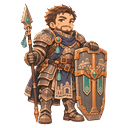
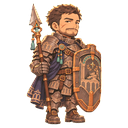
feat: ダインのユニットの絵を、肖像を見本にして作り直したものに置き換える（DES-NG-08）
128×128 の透過 PNG。台帳の行を作り直し（添付した画像と指示文を記録）。
自軍のユニットの絵の指示文を、肖像を人物の見本にする形に直す。

Claude-Session: https://claude.ai/code/session_01Gwc8HGbd5fkwvE2Ki4XAgt

diff --git a/data/alchemy/media/ASSETS.md b/data/alchemy/media/ASSETS.md
@@ -44,6 +44,6 @@
 | `audio/se/win.wav` | 自作（合成。tools/synth、乱数の種 1110） | tools/synth（Go の標準ライブラリのみ。コミットの版は履歴を参照）、2026-11-13 | 勝利の短いジングル（上がる分散和音のあと、C メジャーの和音を伸ばす。2.4 秒） | 自作。CC0 1.0 として扱う（既存の自作の画像と同じ条件。ライセンスの原本はない） | 2026-11-13 | 実装担当エージェント（合成した音を耳では確かめていない） |
 | `art/portraits/aoi.png` | AI 生成（ChatGPT。元の 1254×1254 の画像を、512×512 の PNG に縮小しただけで、ほかの加工はしていない） | ChatGPT（GPT-6、チャットモード）、2026-11-13 | 「2D hand-drawn illustration, flat colors with at most two shading tones, clean medium-weight outlines, slightly desaturated palette with amber/copper and aqua-teal as the only vivid accents, fantasy ancient stone city setting, no text, no letters, no watermark. Bust-up portrait, 3/4 view, calm and gentle expression, soft warm rim light, plain flat light-gray background, square 1:1. A slender young woman around 20 years old, average height for her age, herbalist-alchemist wearing a long cream-colored coat with copper buckles, carrying a large leather backpack full of glass vials and copper tubes, an old handwritten recipe book tucked under the arm, geometric symbol embroidery on the sleeve, short practical hair, amber accent.」（全文。改行は空白に置き換えた。**絵柄のブロックは、この生成のあとに方針書で書き換えた**ので、今の方針書の指示文とは違う）。眼鏡・髪の編み込み・イヤリング・ペンダント・巻物・薬草などは、指示になく、生成側が足したもの。調合帳は、脇に挟まず手に持っている | ChatGPT（OpenAI）の利用規約とコンテンツポリシーを、開発者が確認した。**確認した条項の番号と版は、まだ記録していない（開発者が追記する）** | 2026-11-13 | 開発者 |
 | `art/units/aoi.png` | AI 生成（ChatGPT）。元の 1254×1254 の画像（背景は緑）を、緑の背景を透過にし、人物の範囲で切り出して正方形に整え、128×128 の PNG に縮小した。処理の概略: ① クロマキー（緑らしさ k = G − max(R,B) が 70 以下は不透明、170 以上は透明、その間は直線で α を決める）、② 緑かぶりの除去（α が 1 未満の画素と、透明に近い縁の帯（元の画像で 6 px 以内）では、G を max(R,B) に揃える。髪の橙・服の青緑・薬草の緑は G が max(R,B) を超えないか、縁の外なので変わらない）、③ α > 0.04 の範囲で切り出して 6% の余白を足し、足元をそろえて正方形にする、④ 乗算済みアルファで縮小（Lanczos）、⑤ 縮小のあと、半透明の画素の G を max(R,B) に揃え、それでも k が 8 以上残る α 64 以下の画素は α を 0 にする。仕上がりは、G ≧ 180 かつ G − max(R,B) ≧ 60 の半透明の画素が 0 個（前回は 38 個） | ChatGPT（GPT-6、チャットモード）、2026-11-13。加工は Python（Pillow・NumPy）の使い捨てのスクリプト | 「2D hand-drawn anime-style illustration, soft cel shading with subtle texture, clean thin-to-medium outlines, slightly desaturated palette with amber/copper and aqua-teal as the only vivid accents, fantasy ancient stone city setting, no text, no letters, no watermark. Full-body chibi character, 2.5 heads tall, front three-quarter view, standing pose, centered, entire body visible with margin on all sides, plain flat solid bright-green background (for cutting out), square 1:1. A slender young woman around 20 years old, herbalist-alchemist wearing a long cream-colored coat with copper buckles, a large leather backpack full of glass vials and copper tubes (looks big against her slim frame), short practical hair, amber accent.」（全文。改行は空白に置き換えた）。眼鏡・髪の編み込み・イヤリング・ペンダント・巻物・薬草・腰の小さな鞄・足元の革のブーツなどは、指示になく、生成側が足したもの。同じ人物の肖像（`art/portraits/aoi.png`）とは、別の生成 | ChatGPT（OpenAI）の利用規約とコンテンツポリシーを、開発者が確認した。**確認した条項の番号と版は、まだ記録していない（開発者が追記する）** | 2026-11-13 | 開発者 |
-| `art/units/dain.png` | AI 生成（ChatGPT）。元の 1254×1254 の画像（背景は緑）を、緑の背景を透過にし（クロマキー。縁の緑かぶりを除去）、人物の範囲で切り出して正方形に整え、128×128 の PNG に縮小した（アオイの全身の絵と同じ処理） | ChatGPT（GPT-6、チャットモード）、2026-11-13。加工は Python（Pillow・NumPy）の使い捨てのスクリプト | 「Use the attached image as a style reference: match its art style, line weight, shading, color treatment and chibi proportions, but draw a different character as described below. 2D hand-drawn anime-style illustration, soft cel shading with subtle texture, clean thin-to-medium outlines, slightly desaturated palette with amber/copper and aqua-teal as the only vivid accents, fantasy ancient stone city setting, no text, no letters, no watermark. Full-body chibi character, 2.5 heads tall, front three-quarter view, standing pose, centered, entire body visible with margin on all sides, plain flat solid bright-green background (for cutting out), square 1:1. a broad-shouldered, sturdy man in his late 30s with a calm, dependable expression, short cropped hair and a light beard, wearing heavy iron-gray plate armor with an indigo cloth sash, copper rivets and buckles, holding a large tower shield and a spear.」（`docs/01_concept/new-game-prompts.md` の「ダイン — ユニットの絵」の組み立て済みの指示文の全文。改行は空白に置き換えた。生成のとき、アオイの全身の絵を参照画像として添付した。**生成時に指示文を変えていないかは、開発者に確認中**）。頬の傷・房飾り・盾と鎧の街の模様などは、指示になく、生成側が足したもの | ChatGPT（OpenAI）の利用規約とコンテンツポリシーを、開発者が確認した（アオイの絵と同じ）。**確認した条項の番号と版は、まだ記録していない（開発者が追記する）** | 2026-11-13 | 開発者 |
+| `art/units/dain.png` | AI 生成（ChatGPT）。元の 1254×1254 の画像（背景は緑）を、緑の背景を透過にし（クロマキー。縁の緑かぶりを除去）、人物の範囲で切り出して正方形に整え、128×128 の PNG に縮小した（ほかの全身の絵と同じ処理） | ChatGPT（GPT-6、チャットモード）、2026-11-13。加工は Python（Pillow・NumPy）の使い捨てのスクリプト | 「Use the first attached image as a style reference: match its art style, line weight, shading, color treatment and chibi proportions. The second attached image shows the same character in a portrait: keep exactly the same face, hair, outfit, colors and accessories, and redraw the character as a full-body chibi following the first image's proportions. 2D hand-drawn anime-style illustration, soft cel shading with subtle texture, clean thin-to-medium outlines, slightly desaturated palette with amber/copper and aqua-teal as the only vivid accents, fantasy ancient stone city setting, no text, no letters, no watermark. Full-body chibi character, 2.5 heads tall, front three-quarter view, standing pose, centered, entire body visible with margin on all sides, plain flat solid bright-green background (for cutting out), square 1:1. a broad-shouldered, sturdy man in his late 30s with a calm, dependable expression, short cropped hair and a light beard, wearing heavy iron-gray plate armor with an indigo cloth sash, copper rivets and buckles, holding a large tower shield and a spear.」（`docs/01_concept/new-game-prompts.md` の「ダイン — ユニットの絵」の組み立て済みの指示文の全文。改行は空白に置き換えた。生成のとき、①アオイの全身の絵（絵柄の見本）、②ダインの肖像 `art/portraits/dain.png`（人物の見本）を添付した。**生成時に指示文を変えていないかは、開発者に確認中**）。頬の傷・胸の花の留め具と房飾り・盾の街と柱廊の模様・鎧の肩の模様・マントの裾の模様などは、指示になく、生成側が足したもの（肖像から引き継いだ）。先に置いていた、肖像を見本にしない版の全身の絵は、この絵に置き換えた | ChatGPT（OpenAI）の利用規約とコンテンツポリシーを、開発者が確認した（アオイの絵と同じ）。**確認した条項の番号と版は、まだ記録していない（開発者が追記する）** | 2026-11-13 | 開発者 |
 | `art/units/tori.png` | AI 生成（ChatGPT）。元の 1254×1254 の画像（背景は緑）を、緑の背景を透過にし（クロマキー。縁の緑かぶりを除去）、人物の範囲で切り出して正方形に整え、128×128 の PNG に縮小した（アオイ・ダインの全身の絵と同じ処理） | ChatGPT（GPT-6、チャットモード）、2026-11-13。加工は Python（Pillow・NumPy）の使い捨てのスクリプト | 「Use the attached image as a style reference: match its art style, line weight, shading, color treatment and chibi proportions, but draw a different character as described below. 2D hand-drawn anime-style illustration, soft cel shading with subtle texture, clean thin-to-medium outlines, slightly desaturated palette with amber/copper and aqua-teal as the only vivid accents, fantasy ancient stone city setting, no text, no letters, no watermark. Full-body chibi character, 2.5 heads tall, front three-quarter view, standing pose, centered, entire body visible with margin on all sides, plain flat solid bright-green background (for cutting out), square 1:1. a lean, tall young man around 19 with short messy hair and an energetic expression, wearing brown leather armor with a muted ochre-yellow scarf, copper buckles, holding a long spear taller than himself.」（`docs/01_concept/new-game-prompts.md` の「トーリ — ユニットの絵」の組み立て済みの指示文の全文。改行は空白に置き換えた。生成のとき、参照画像を添付した。**生成時に指示文を変えていないかは、開発者に確認中**）。笑った顔・頬の絆創膏・髪の橙のメッシュ・房飾り・腰の鞄と小瓶・スカーフと腰布の街の模様・革のブーツなどは、指示になく、生成側が足したもの | ChatGPT（OpenAI）の利用規約とコンテンツポリシーを、開発者が確認した（アオイの絵と同じ）。**確認した条項の番号と版は、まだ記録していない（開発者が追記する）** | 2026-11-13 | 開発者 |
 | `art/portraits/dain.png` | AI 生成（ChatGPT）。元の 1254×1254 の画像を、512×512 の PNG に縮小しただけで、ほかの加工はしていない | ChatGPT（GPT-6、チャットモード）、2026-11-13 | 「Use the attached image as a style reference: match its art style, line weight, shading and color treatment, but draw a different character as described below. 2D hand-drawn anime-style illustration, soft cel shading with subtle texture, clean thin-to-medium outlines, slightly desaturated palette with amber/copper and aqua-teal as the only vivid accents, fantasy ancient stone city setting, no text, no letters, no watermark. Bust-up portrait, 3/4 view, calm expression, soft warm rim light, plain flat light-gray background, square 1:1. a broad-shouldered, sturdy man in his late 30s with a calm, dependable expression, short cropped hair and a light beard, wearing heavy iron-gray plate armor with an indigo cloth sash, copper rivets and buckles, holding a large tower shield and a spear.」（`docs/01_concept/new-game-prompts.md` の「ダイン — 肖像」の組み立て済みの指示文の全文。改行は空白に置き換えた。生成のとき、参照画像はアオイの肖像だけを添付した。**生成時に指示文を変えていないかは、開発者に確認中**）。頬の傷・胸の花の留め具と房飾り・盾の街と柱廊の模様・鎧の肩の模様などは、指示になく、生成側が足したもの | ChatGPT（OpenAI）の利用規約とコンテンツポリシーを、開発者が確認した（アオイの絵と同じ）。**確認した条項の番号と版は、まだ記録していない（開発者が追記する）** | 2026-11-13 | 開発者 |

diff --git a/docs/01_concept/new-game-prompts.md b/docs/01_concept/new-game-prompts.md
@@ -50,7 +50,8 @@ as a full-body chibi following the first image's proportions.
 ### ダイン（護衛の重装兵） — ユニットの絵（`units/dain.png`）
 
 ```
-Use the attached image as a style reference: match its art style, line weight, shading, color treatment and chibi proportions, but draw a different character as described below.
+Use the first attached image as a style reference: match its art style, line weight, shading, color treatment and chibi proportions.
+The second attached image shows the same character in a portrait: keep exactly the same face, hair, outfit, colors and accessories, and redraw the character as a full-body chibi following the first image's proportions.
 2D hand-drawn anime-style illustration, soft cel shading with subtle texture, clean thin-to-medium outlines, slightly desaturated palette with amber/copper and aqua-teal as the only vivid accents, fantasy ancient stone city setting, no text, no letters, no watermark.
 Full-body chibi character, 2.5 heads tall, front three-quarter view, standing pose, centered, entire body visible with margin on all sides, plain flat solid bright-green background (for cutting out), square 1:1.
 a broad-shouldered, sturdy man in his late 30s with a calm, dependable expression, short cropped hair and a light beard, wearing heavy iron-gray plate armor with an indigo cloth sash, copper rivets and buckles, holding a large tower shield and a spear.
@@ -68,7 +69,8 @@ a broad-shouldered, sturdy man in his late 30s with a calm, dependable expressio
 ### トーリ（槍兵） — ユニットの絵（`units/tori.png`）
 
 ```
-Use the attached image as a style reference: match its art style, line weight, shading, color treatment and chibi proportions, but draw a different character as described below.
+Use the first attached image as a style reference: match its art style, line weight, shading, color treatment and chibi proportions.
+The second attached image shows the same character in a portrait: keep exactly the same face, hair, outfit, colors and accessories, and redraw the character as a full-body chibi following the first image's proportions.
 2D hand-drawn anime-style illustration, soft cel shading with subtle texture, clean thin-to-medium outlines, slightly desaturated palette with amber/copper and aqua-teal as the only vivid accents, fantasy ancient stone city setting, no text, no letters, no watermark.
 Full-body chibi character, 2.5 heads tall, front three-quarter view, standing pose, centered, entire body visible with margin on all sides, plain flat solid bright-green background (for cutting out), square 1:1.
 a lean, tall young man around 19 with short messy hair and an energetic expression, wearing brown leather armor with a muted ochre-yellow scarf, copper buckles, holding a long spear taller than himself.
@@ -86,7 +88,8 @@ a lean, tall young man around 19 with short messy hair and an energetic expressi
 ### ネム（弓兵） — ユニットの絵（`units/nemu.png`）
 
 ```
-Use the attached image as a style reference: match its art style, line weight, shading, color treatment and chibi proportions, but draw a different character as described below.
+Use the first attached image as a style reference: match its art style, line weight, shading, color treatment and chibi proportions.
+The second attached image shows the same character in a portrait: keep exactly the same face, hair, outfit, colors and accessories, and redraw the character as a full-body chibi following the first image's proportions.
 2D hand-drawn anime-style illustration, soft cel shading with subtle texture, clean thin-to-medium outlines, slightly desaturated palette with amber/copper and aqua-teal as the only vivid accents, fantasy ancient stone city setting, no text, no letters, no watermark.
 Full-body chibi character, 2.5 heads tall, front three-quarter view, standing pose, centered, entire body visible with margin on all sides, plain flat solid bright-green background (for cutting out), square 1:1.
 a tall, athletic woman in her mid-20s with a long braid over her shoulder and a calm, focused look, wearing a wide-brimmed hat and a sand-colored cloak with an aqua-teal cord and a copper clasp, carrying a longbow nearly as tall as her and a quiver.
@@ -104,7 +107,8 @@ a tall, athletic woman in her mid-20s with a long braid over her shoulder and a 
 ### ハル（調合の見習い・杖で回復） — ユニットの絵（`units/haru.png`）
 
 ```
-Use the attached image as a style reference: match its art style, line weight, shading, color treatment and chibi proportions, but draw a different character as described below.
+Use the first attached image as a style reference: match its art style, line weight, shading, color treatment and chibi proportions.
+The second attached image shows the same character in a portrait: keep exactly the same face, hair, outfit, colors and accessories, and redraw the character as a full-body chibi following the first image's proportions.
 2D hand-drawn anime-style illustration, soft cel shading with subtle texture, clean thin-to-medium outlines, slightly desaturated palette with amber/copper and aqua-teal as the only vivid accents, fantasy ancient stone city setting, no text, no letters, no watermark.
 Full-body chibi character, 2.5 heads tall, front three-quarter view, standing pose, centered, entire body visible with margin on all sides, plain flat solid bright-green background (for cutting out), square 1:1.
 a small teenage boy around 16 with untidy messy hair and a shy, cheerful expression, wearing an oversized near-white cream robe with very long sleeves and pale aqua trim, a copper ring on his belt, holding a short healing staff topped with an aqua-teal crystal and a small glass vial.
